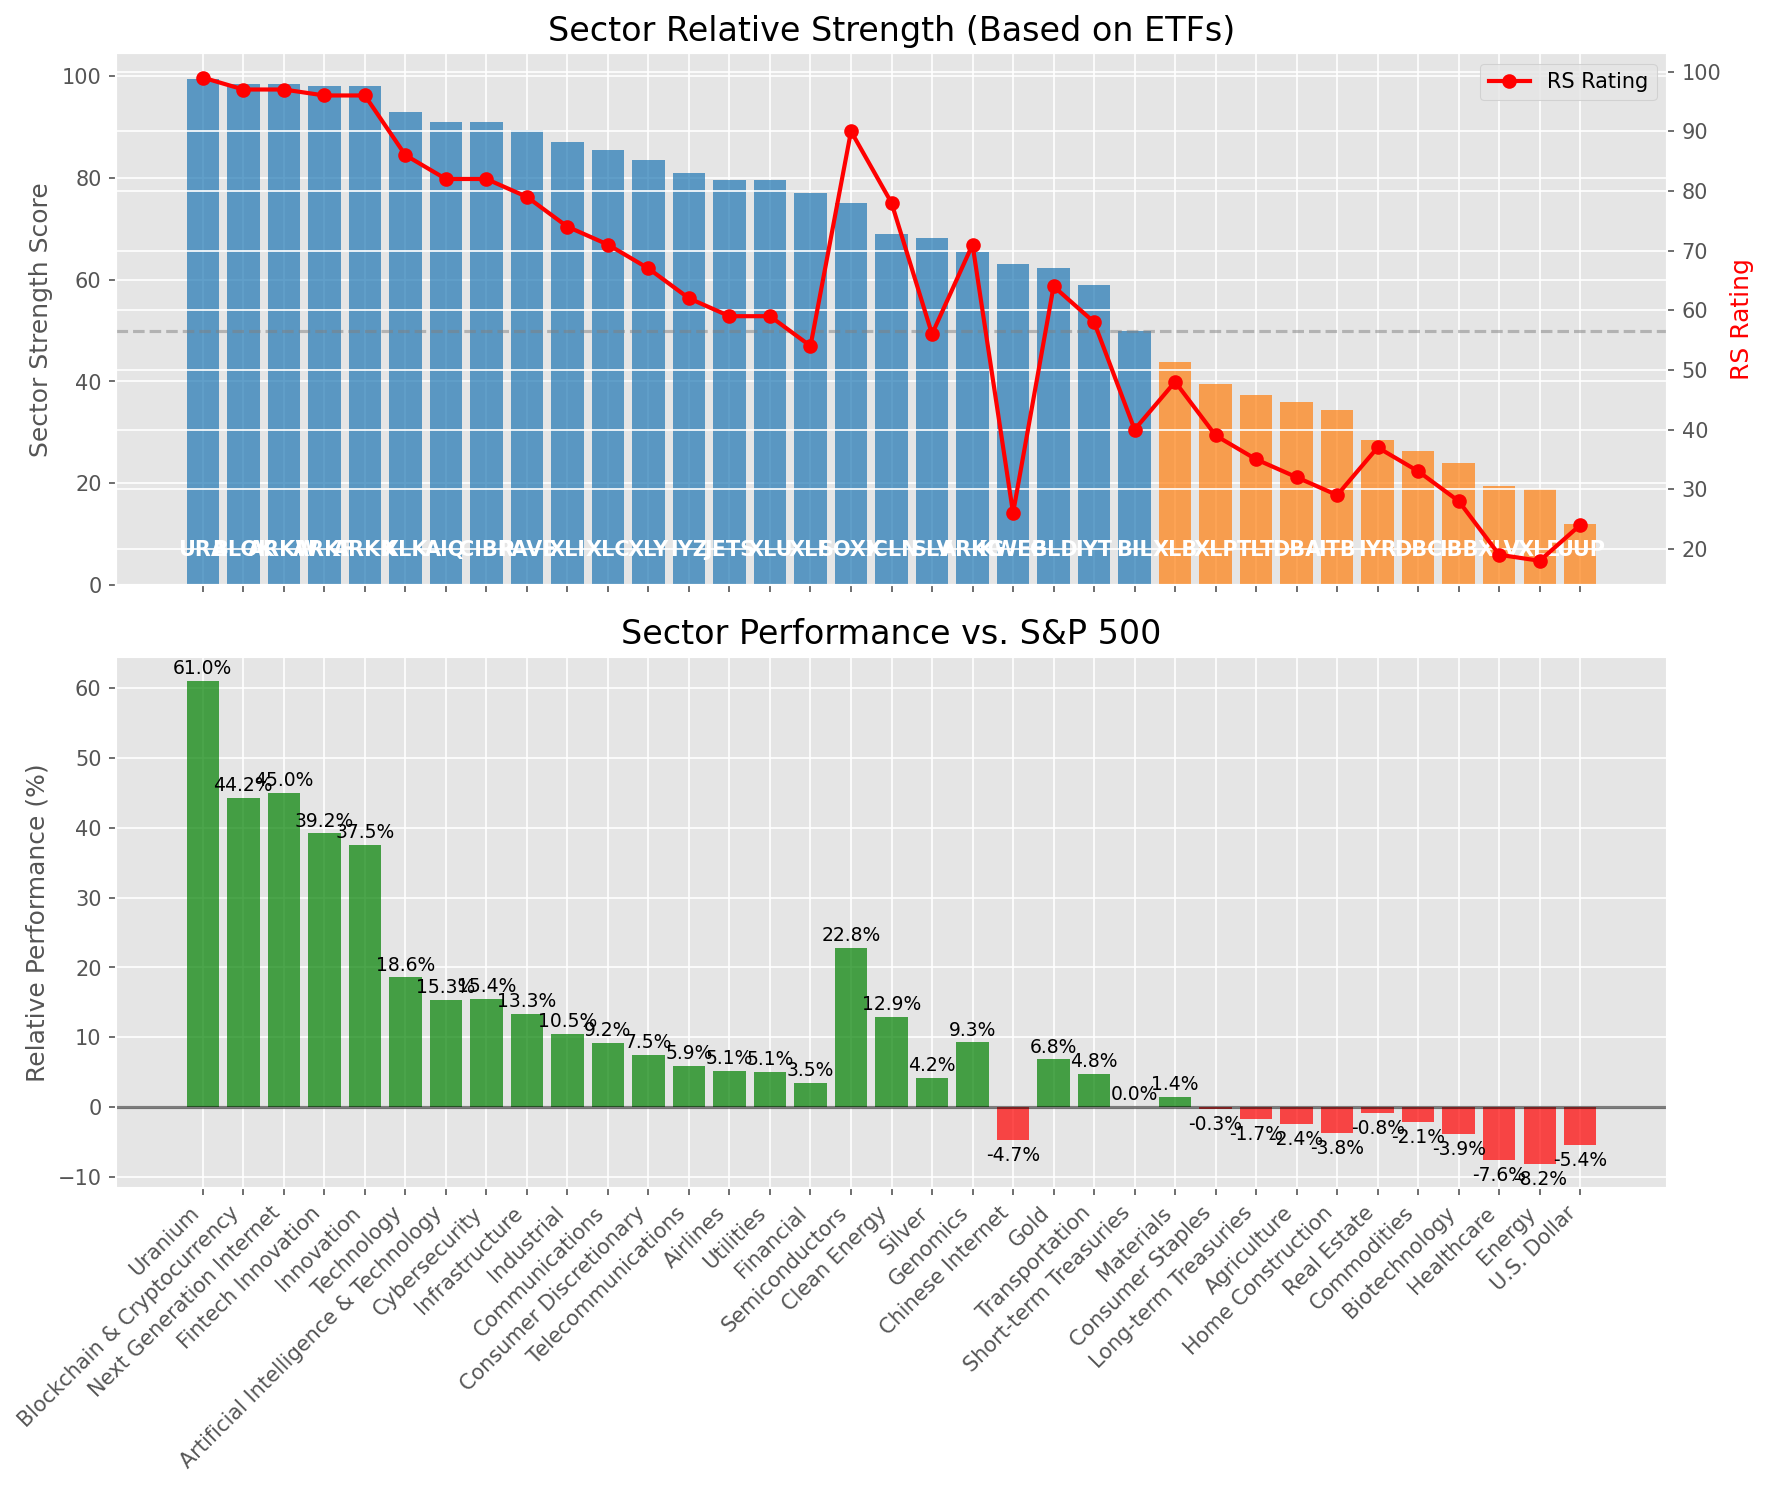
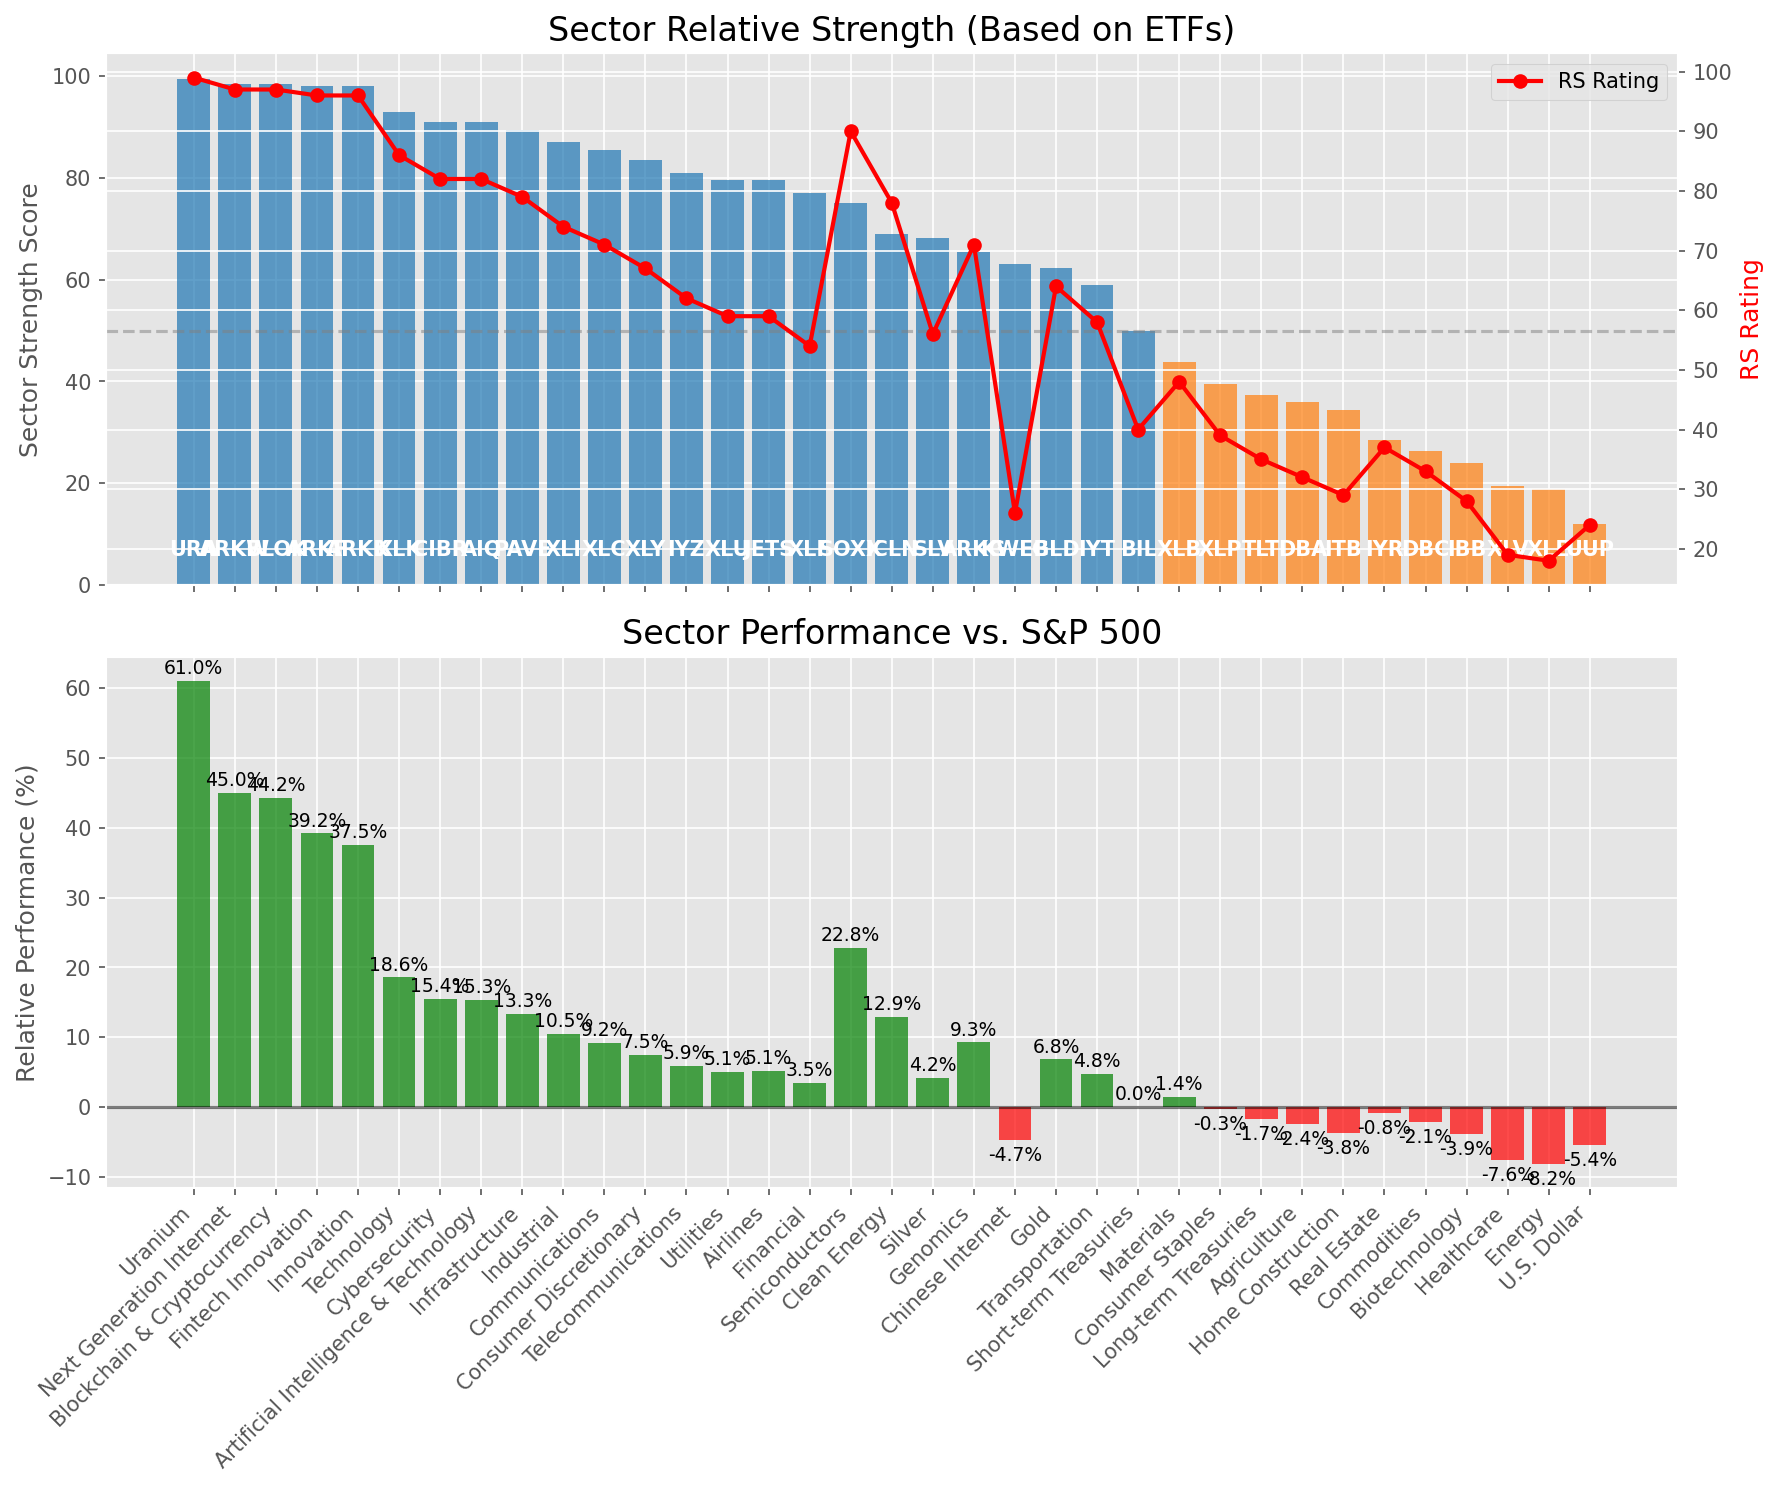
Add market report for 2025-06-29

diff --git a/oneil_relative_strength_report_2025-06-29.md b/oneil_relative_strength_report_2025-06-29.md
@@ -50,20 +50,20 @@ Based on William O'Neil's Relative Strength Methodology
 | ETF | Strength | RS Rating | Performance | Above Key MAs | Trend | Sector |
 |-----|----------|-----------|-------------|--------------|-------|--------|
 | [URA](https://www.tradingview.com/chart/?symbol=URA) | 99.5 | 99.0 | 61.04% | 10d ✓, 50d ✓, 200d ✓ | ↗ | Uranium |
-| [BLOK](https://www.tradingview.com/chart/?symbol=BLOK) | 98.5 | 97.0 | 44.22% | 10d ✓, 50d ✓, 200d ✓ | ↗ | Blockchain & Cryptocurrency |
 | [ARKW](https://www.tradingview.com/chart/?symbol=ARKW) | 98.5 | 97.0 | 44.98% | 10d ✓, 50d ✓, 200d ✓ | ↗ | Next Generation Internet |
+| [BLOK](https://www.tradingview.com/chart/?symbol=BLOK) | 98.5 | 97.0 | 44.22% | 10d ✓, 50d ✓, 200d ✓ | ↗ | Blockchain & Cryptocurrency |
 | [ARKF](https://www.tradingview.com/chart/?symbol=ARKF) | 98.0 | 96.0 | 39.19% | 10d ✓, 50d ✓, 200d ✓ | ↗ | Fintech Innovation |
 | [ARKK](https://www.tradingview.com/chart/?symbol=ARKK) | 98.0 | 96.0 | 37.53% | 10d ✓, 50d ✓, 200d ✓ | ↗ | Innovation |
 | [XLK](https://www.tradingview.com/chart/?symbol=XLK) | 93.0 | 86.0 | 18.56% | 10d ✓, 50d ✓, 200d ✓ | ↗ | Technology |
-| [AIQ](https://www.tradingview.com/chart/?symbol=AIQ) | 91.0 | 82.0 | 15.28% | 10d ✓, 50d ✓, 200d ✓ | ↗ | Artificial Intelligence & Technology |
 | [CIBR](https://www.tradingview.com/chart/?symbol=CIBR) | 91.0 | 82.0 | 15.45% | 10d ✓, 50d ✓, 200d ✓ | ↗ | Cybersecurity |
+| [AIQ](https://www.tradingview.com/chart/?symbol=AIQ) | 91.0 | 82.0 | 15.28% | 10d ✓, 50d ✓, 200d ✓ | ↗ | Artificial Intelligence & Technology |
 | [PAVE](https://www.tradingview.com/chart/?symbol=PAVE) | 89.5 | 79.0 | 13.28% | 10d ✓, 50d ✓, 200d ✓ | ↗ | Infrastructure |
 | [XLI](https://www.tradingview.com/chart/?symbol=XLI) | 87.0 | 74.0 | 10.46% | 10d ✓, 50d ✓, 200d ✓ | ↗ | Industrial |
 | [XLC](https://www.tradingview.com/chart/?symbol=XLC) | 85.5 | 71.0 | 9.15% | 10d ✓, 50d ✓, 200d ✓ | ↗ | Communications |
 | [XLY](https://www.tradingview.com/chart/?symbol=XLY) | 83.5 | 67.0 | 7.49% | 10d ✓, 50d ✓, 200d ✓ | ↗ | Consumer Discretionary |
 | [IYZ](https://www.tradingview.com/chart/?symbol=IYZ) | 81.0 | 62.0 | 5.93% | 10d ✓, 50d ✓, 200d ✓ | ↗ | Telecommunications |
-| [JETS](https://www.tradingview.com/chart/?symbol=JETS) | 79.5 | 59.0 | 5.14% | 10d ✓, 50d ✓, 200d ✓ | ↗ | Airlines |
 | [XLU](https://www.tradingview.com/chart/?symbol=XLU) | 79.5 | 59.0 | 5.06% | 10d ✓, 50d ✓, 200d ✓ | ↗ | Utilities |
+| [JETS](https://www.tradingview.com/chart/?symbol=JETS) | 79.5 | 59.0 | 5.14% | 10d ✓, 50d ✓, 200d ✓ | ↗ | Airlines |
 | [XLF](https://www.tradingview.com/chart/?symbol=XLF) | 77.0 | 54.0 | 3.51% | 10d ✓, 50d ✓, 200d ✓ | ↗ | Financial |
 | [SOXX](https://www.tradingview.com/chart/?symbol=SOXX) | 75.0 | 90.0 | 22.77% | 10d ✓, 50d ✓, 200d ✓ | ↘ | Semiconductors |
 | [ICLN](https://www.tradingview.com/chart/?symbol=ICLN) | 69.0 | 78.0 | 12.92% | 10d ✓, 50d ✓, 200d ✓ | ↘ | Clean Energy |
@@ -98,7 +98,7 @@ This table shows the relative strength metrics for different market sectors base
 
 ### **Current Sector Leadership**
 
-The current market leadership is coming from the following sectors: **Uranium, Blockchain & Cryptocurrency, Next Generation Internet**.
+The current market leadership is coming from the following sectors: **Uranium, Next Generation Internet, Blockchain & Cryptocurrency**.
 
 The **Uranium** sector (represented by **URA**) is showing particularly strong relative strength with an RS rating of 99.0 and performance of 61.04% vs. the S&P 500. This sector is trading above its 10-day, 50-day, 200-day moving average(s). Investors should consider focusing on high RS stocks within these leading sectors for potential outperformance.
 
